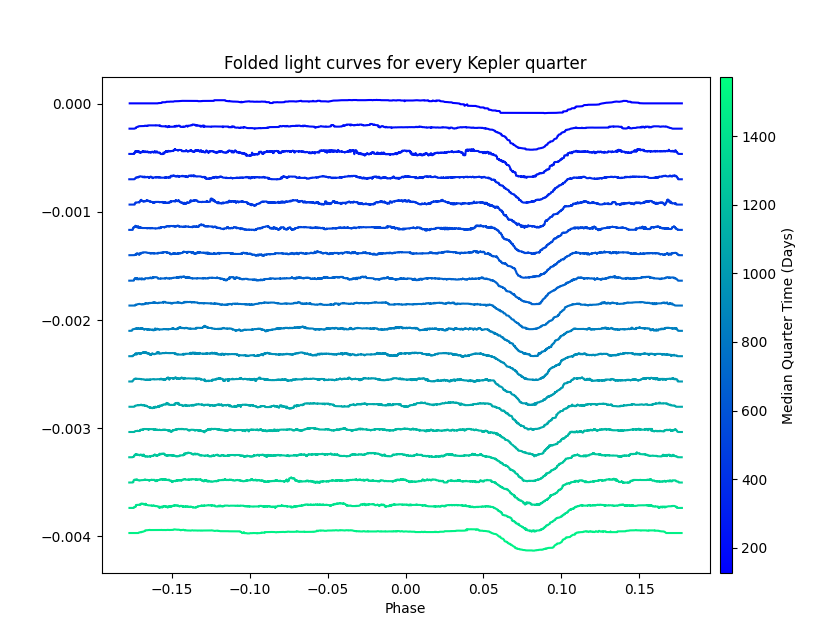
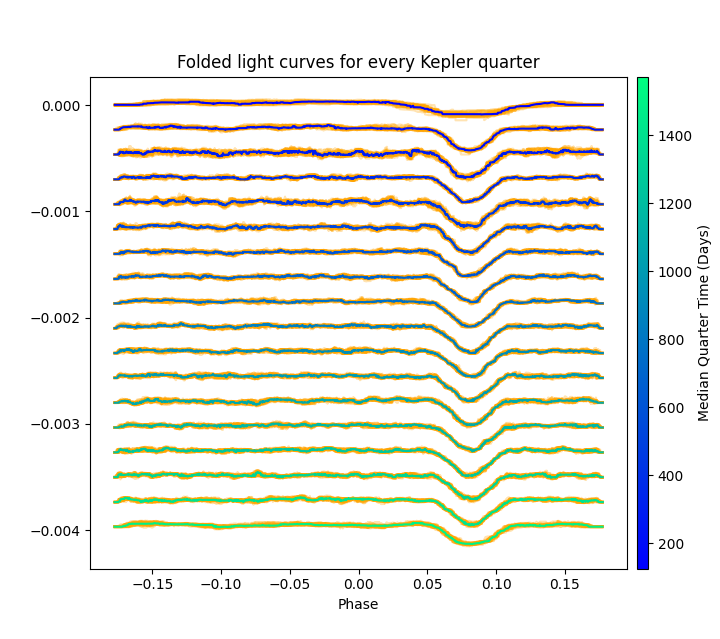
Added new targets

Changed region(s): [[0.0306, 0.0892, 1.0, 0.9515], [0.0611, 0.4757, 0.1528, 0.5055]]

diff --git a/Quarters.py b/Quarters.py
@@ -9,7 +9,7 @@ def produceQuarterPeriodPlots(times, periods):
     plt.xlabel("Time (Days)")
     plt.ylabel("Best fit period (days)")
 
-def produceQuarterFoldPlots(lightcurves, median_times, period, spacing, include_boot=False, n_samples=25):
+def produceQuarterFoldPlots(lightcurves, median_times, period, spacing, time_bin_size=1, include_boot=False, n_samples=25):
     fig, ax = plt.subplots()
     fig.set(figheight=winSize[1], figwidth=winSize[0])
 
@@ -26,30 +26,34 @@ def produceQuarterFoldPlots(lightcurves, median_times, period, spacing, include_
 
         if include_boot:
             phase_samples, flux_samples = customBootstrap(lc.phase, lc.flux, n_samples)
-            flux_samples = np.apply_along_axis(lambda x: getMedianLine(lc.phase, x, 2, sorted=True), 1, flux_samples)
+            flux_samples = np.apply_along_axis(lambda x: getMedianLine(lc.phase, x, time_bin_size=time_bin_size, sorted=True), 1, flux_samples)
             for p, f in zip(phase_samples, flux_samples):
                 ax.plot(p, f-np.mean(f)-spacing*idx, alpha=0.3, c="orange")
 
-        flux_binned = getMedianLine(lc.phase, lc.flux, 2, sorted=True)
+        flux_binned = getMedianLine(lc.phase, lc.flux, time_bin_size=time_bin_size, sorted=True)
         ax.plot(lc.phase, flux_binned-np.mean(flux_binned)-spacing*idx, c=cmap(idx/len(lightcurves)))
 
     fig.colorbar(cmap_sm, label="Median Quarter Time (Days)", cax=cax)
 
 if __name__ == "__main__":
 
+    # Targets of Intrest: Kepler-78 b, Kepler-1520 b, Kepler-845 b, Kepler-41 b, Kepler-12 b, Kepler-17 b, Kepler-7 b, Kepler-42 c 
+
+
     # Initialize target constants
-    target = "Kepler-78 b"
-    if "Kepler" in target:
+    target = "Kepler-41 b"
+    if target in sp_csv.index:
         target_period_range = getPeriodRange(sp_csv.loc[target, "pl_orbper"])
         target_duration = sp_csv.loc[target, "pl_trandur"]/24
-    if np.isnan(target_duration):
-        target_duration = 1/24
+        if np.isnan(target_duration):
+            target_duration = 1/24
     else:
+        print("Target not found in provided CSV file")
         target_period_range = None
         target_duration = 1/24
     quarters = np.linspace(0, 16, 17, dtype=int)
     lc = LC(np.empty(0), np.empty(0))
-    filter_cutoff = 1
+    filter_cutoff = 0.5
 
     periods = np.zeros_like(quarters, dtype=float)
     median_times = np.zeros_like(quarters, dtype=float)
@@ -73,11 +77,9 @@ if __name__ == "__main__":
         print(f"Number of data points: {len(quarter_lc.time)}, Baseline: {quarter_lc.time[-1]-quarter_lc.time[0]} days")
 
         # Obtaining best fits periods
-        """
         period = getPeriod(quarter_lc.time, quarter_lc.flux, target_duration, period=target_period_range)
         periods[idx] = period
         print(f"Period of {target} obtained from BLS periodogram: {period} Days or {period * 24} Hours")
-        """
 
         # Appending the quarter specific lc for later use
         lc_list[idx] = quarter_lc
@@ -93,13 +95,14 @@ if __name__ == "__main__":
     period_grid = np.arange(period-spacing*100, period+spacing*99, spacing)
     lc.fold(period)
     print(f"Period of {target} obtained from BLS periodogram: {period} Days or {period * 24} Hours")
-    spacing = np.nanstd(lc.flux)*2
+    print(f"STD of periods with quarter 0: {np.std(periods)}, without quarter 0: {np.std(periods[1:])}")
+    spacing = np.nanstd(lc.flux)*4
 
     # Producing a variety of informative plots and interactive plots
     produceBLSPeriodogramPlots(lc.time, lc.flux, kep78b_duration, period=target_period_range)
     produceFoldPlots(lc.time, lc.flux, period, time_bin_size=2)
     produceQuarterFoldPlots(lc_list, median_times, period, spacing, include_boot=True, n_samples=50)
-    # produceQuarterPeriodPlots(median_times, periods)
+    produceQuarterPeriodPlots(median_times, periods)
     # produceFoldPlotsInteractive(lc.time, lc.flux, period_grid, target_duration)
     # produceFoldPlotsAnimation(lc.time, lc.flux, period_grid, target_duration)
 

diff --git a/Pipeline.py b/Pipeline.py
@@ -75,10 +75,14 @@ class LC:
             self.phase, self.flux = self.phase[sort_idx], self.flux[sort_idx]
 
 
-def getPeriodRange(period, baseline=4.1*365, buffer=1/24):
+def getPeriodRange(period, baseline=4.1*365, buffer=1/24, low_buffer=None, up_buffer=None):
     # In Days
+    if low_buffer is None:
+        low_buffer = buffer
+    if up_buffer is None:
+        up_buffer = buffer
     spacing = 0.01 * (period ** 2 / (baseline)) 
-    return np.arange((period - buffer), (period + buffer), spacing)  
+    return np.arange((period - low_buffer), (period + up_buffer), spacing)  
 
 
 def fillNans(y_data):
@@ -497,12 +501,17 @@ if __name__ == "__main__":
 
     # Initialize Target Constants
     target = "Kepler-78 b"
-    target_period_range = getPeriodRange(sp_csv.loc[target, "pl_orbper"])
-    target_duration = sp_csv.loc[target, "pl_trandur"]/24
-    if np.isnan(target_duration):
+    if target in sp_csv.index:
+        target_period_range = getPeriodRange(sp_csv.loc[target, "pl_orbper"], up_buffer=1)
+        target_duration = sp_csv.loc[target, "pl_trandur"]/24
+        if np.isnan(target_duration):
+            target_duration = 1/24
+    else:
+        print("Target not found in provided CSV file")
+        target_period_range = None
         target_duration = 1/24
     quarter = 2
-    filter_cutoff = 1
+    filter_cutoff = 0.5
 
     print("=" * 100)
 
@@ -515,6 +524,7 @@ if __name__ == "__main__":
     num_nans = fillNans(lc.flux)
     produceTrendPlots(lc.time, lc.flux, filter_cutoff, lowPassGaussian)
     trend = filter(lc.flux, filter_cutoff, lowPassGaussian)
+    # trend = getMedianLine(lc.time, lc.flux, 1, sorted=True)
     lc.flux = lc.flux/trend - 1.0
     lc.time, lc.flux, num_outliers = removeOutliers(lc.time, lc.flux, 8)
     print(f"{num_nans} nan flux values were filled in, {num_outliers} outliers were removed")
